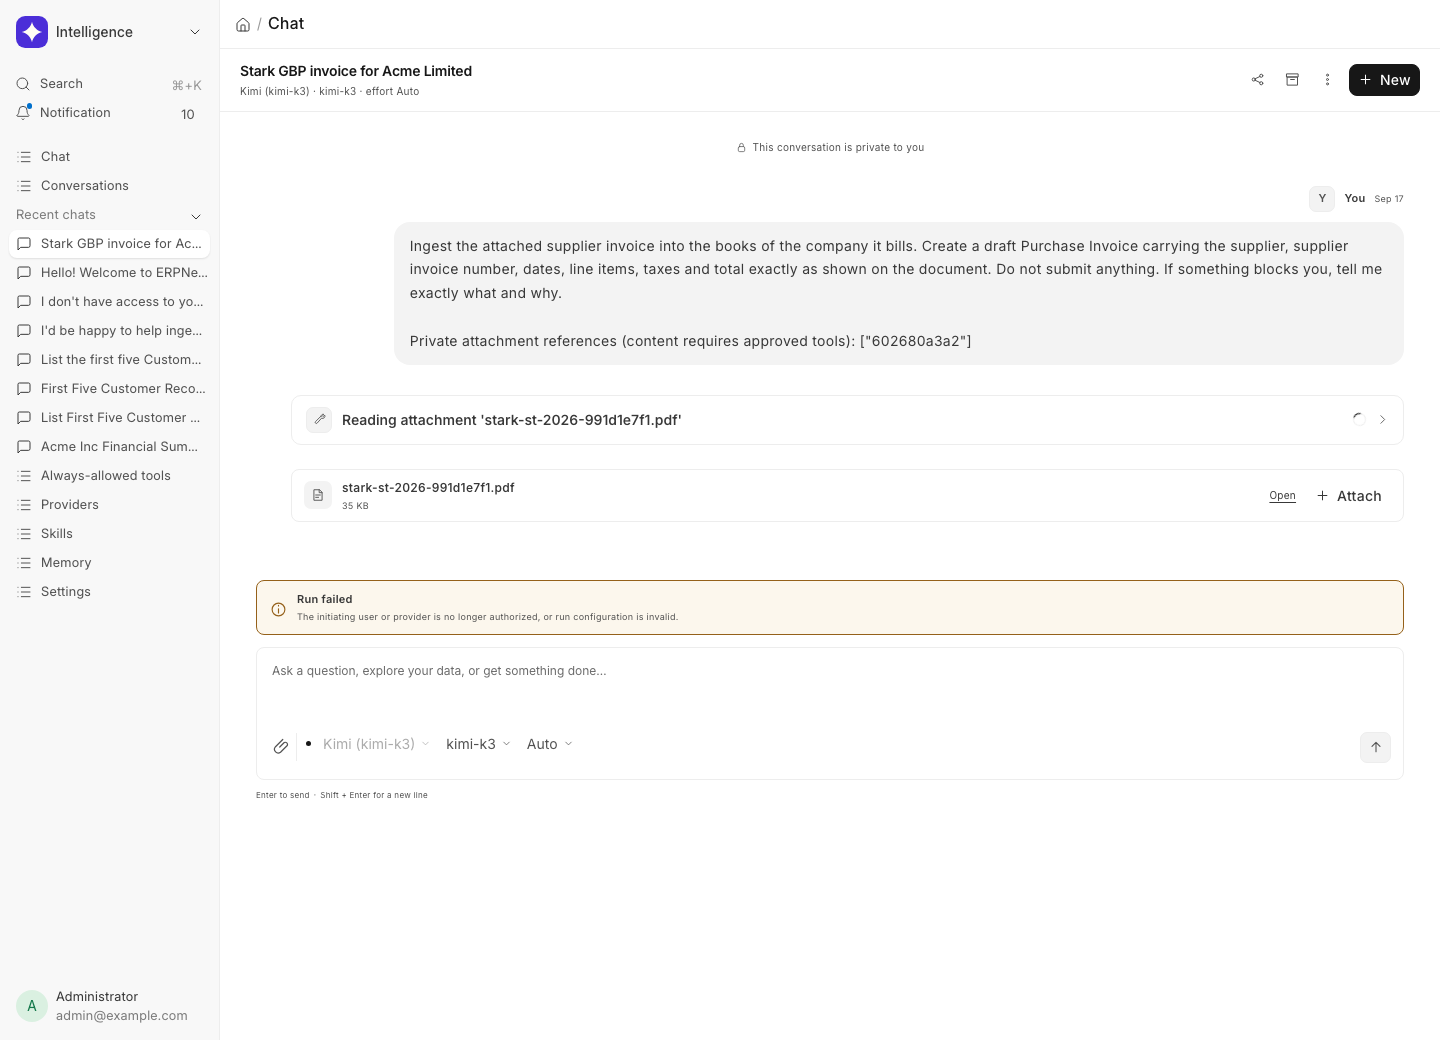
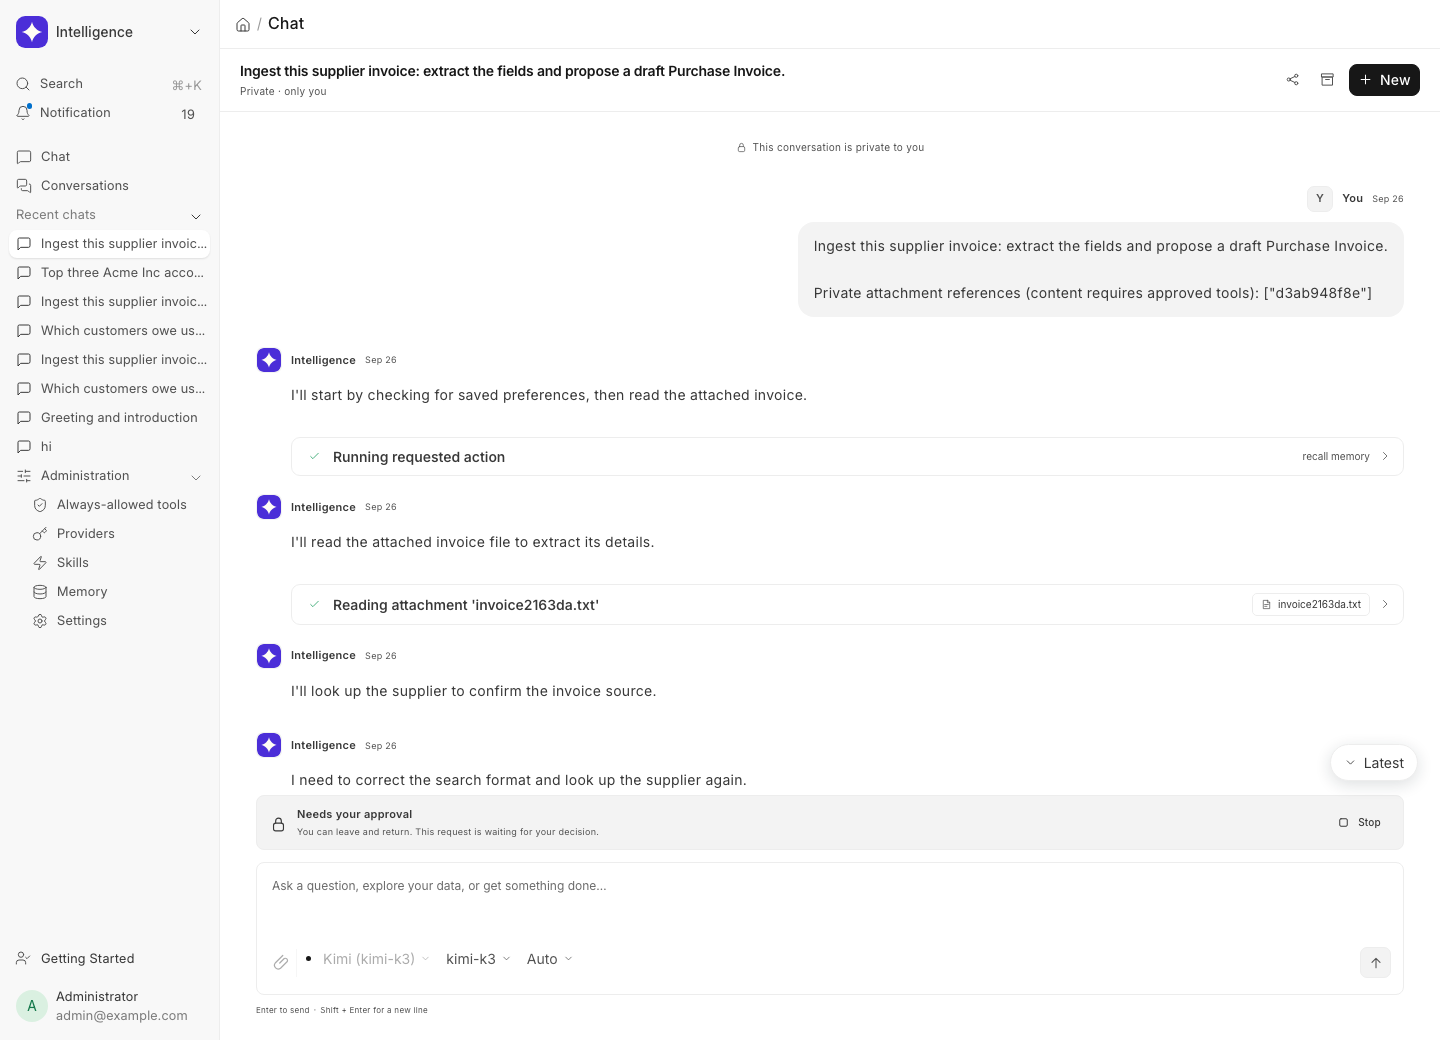
docs: recapture the sidebar shots on 0.8.2 and record the live verification
The welcome and desk-sidebar captures now show the converged 0.8.x
sidebar (distinct icons, Administration group, Getting Started pinned at
the bottom), and verification.md records the 47-check live pass on the
deployed 0.8.2 image, including the muse-spark-1.3 title and ingestion
runs and the readiness-gate lesson.

diff --git a/docs/verification.md b/docs/verification.md
@@ -119,6 +119,16 @@ Image `ghcr.io/greatwharf/frappe-intelligence:0.7.4` (tag `v0.7.4`, commit `4fc0
 
 After the deploy, **24/24 browser checks passed** in a real Chromium session: login and asset resolution; the section appearing on `/desk/intelligence` with native section-item markup, the native header label, placement after Conversations, between one and eight indented rows linking at chat routes and mirroring the API order and titles; clicking a row opening the conversation with the row marked active and the title matching; collapse toggling, persisting to the native `section-breaks-state` bucket and surviving a reload; a REST rename flowing through `App.refreshList` into the sidebar live; and the section staying out of other workspaces while remaining on the Conversations list sidebar. Captures: [screenshots/welcome.png](screenshots/welcome.png), [screenshots/desk-sidebar.png](screenshots/desk-sidebar.png).
 
+## Live verification of 0.8.2, 26 September 2026
+
+Image `ghcr.io/greatwharf/frappe-intelligence:0.8.2` (tag `v0.8.2`, commit `41d3847`) was deployed to the same disposable ERPNext v16 site. Local gates before the push: **821 Python tests**, **127 dependency-free UI tests in both DOM modes**, ruff lint and formatting, the mocked Chromium suites, all green; GitHub Actions ran green on the same tree, including the real Frappe v15 and v16 install/migrate jobs.
+
+0.8.x is the native-management release: the in-app settings dialogs are gone and every record type (providers, skills, memories, tool grants, settings) is managed on its native Desk form or list, linked from a sidebar whose rows now carry distinct icons under an Administration section, with a Getting Started onboarding panel pinned at the bottom. Conversation titles are generated with a strict prompt and validated so assistant replies can never become titles, output token limits rise to a 16384 default and 262144 ceiling, and memories embed for semantic recall where a provider offers embeddings.
+
+After the deploy, **47/47 live checks passed** (one memory-embedding check skipped: the site's provider exposes no embeddings endpoint, and the recency fallback was verified instead): the converged sidebar with per-row icons and the nested Administration group; the seeded onboarding record and its pinned Getting Started link; a native `frappe.client.save` raising a provider's max_tokens (the 0.7.x complaint) succeeding while a kind change is refused with 403; the provider form hiding the stored key and offering Fetch models; the settings form rendering chip editors and the RAG status banner; the chat header holding one row with no menu and a state-only subtitle; the Desk document never growing a second scrollbar; and two end-to-end runs on the `muse-spark-1.3` model from the provider catalog: a receivables question driven through four approval rounds to completion with the generated title "Top three Acme Inc accounts receivable customers" replacing the placeholder, and a supplier-invoice attachment read and proposed as drafts behind three approval cards. Captures: [screenshots/welcome.png](screenshots/welcome.png), [screenshots/desk-sidebar.png](screenshots/desk-sidebar.png).
+
+One verification lesson is recorded for future deploys: the asset marker flips as soon as the web container serves the new build, while `bench migrate` (sidebar convergence, onboarding and skill seeds) can still be running, and leftover seed counts from older releases can satisfy a lax readiness gate. Readiness must assert a release-specific seeded record, such as the Module Onboarding row or an icon on the Chat sidebar row; the first 0.8.2 check run raced the migrate and the strict rerun passed unchanged.
+
 ## Remaining validation boundaries
 
 - Actual Frappe/ERPNext install, migration, native permission dispatch and RQ/realtime behavior on the target site.
